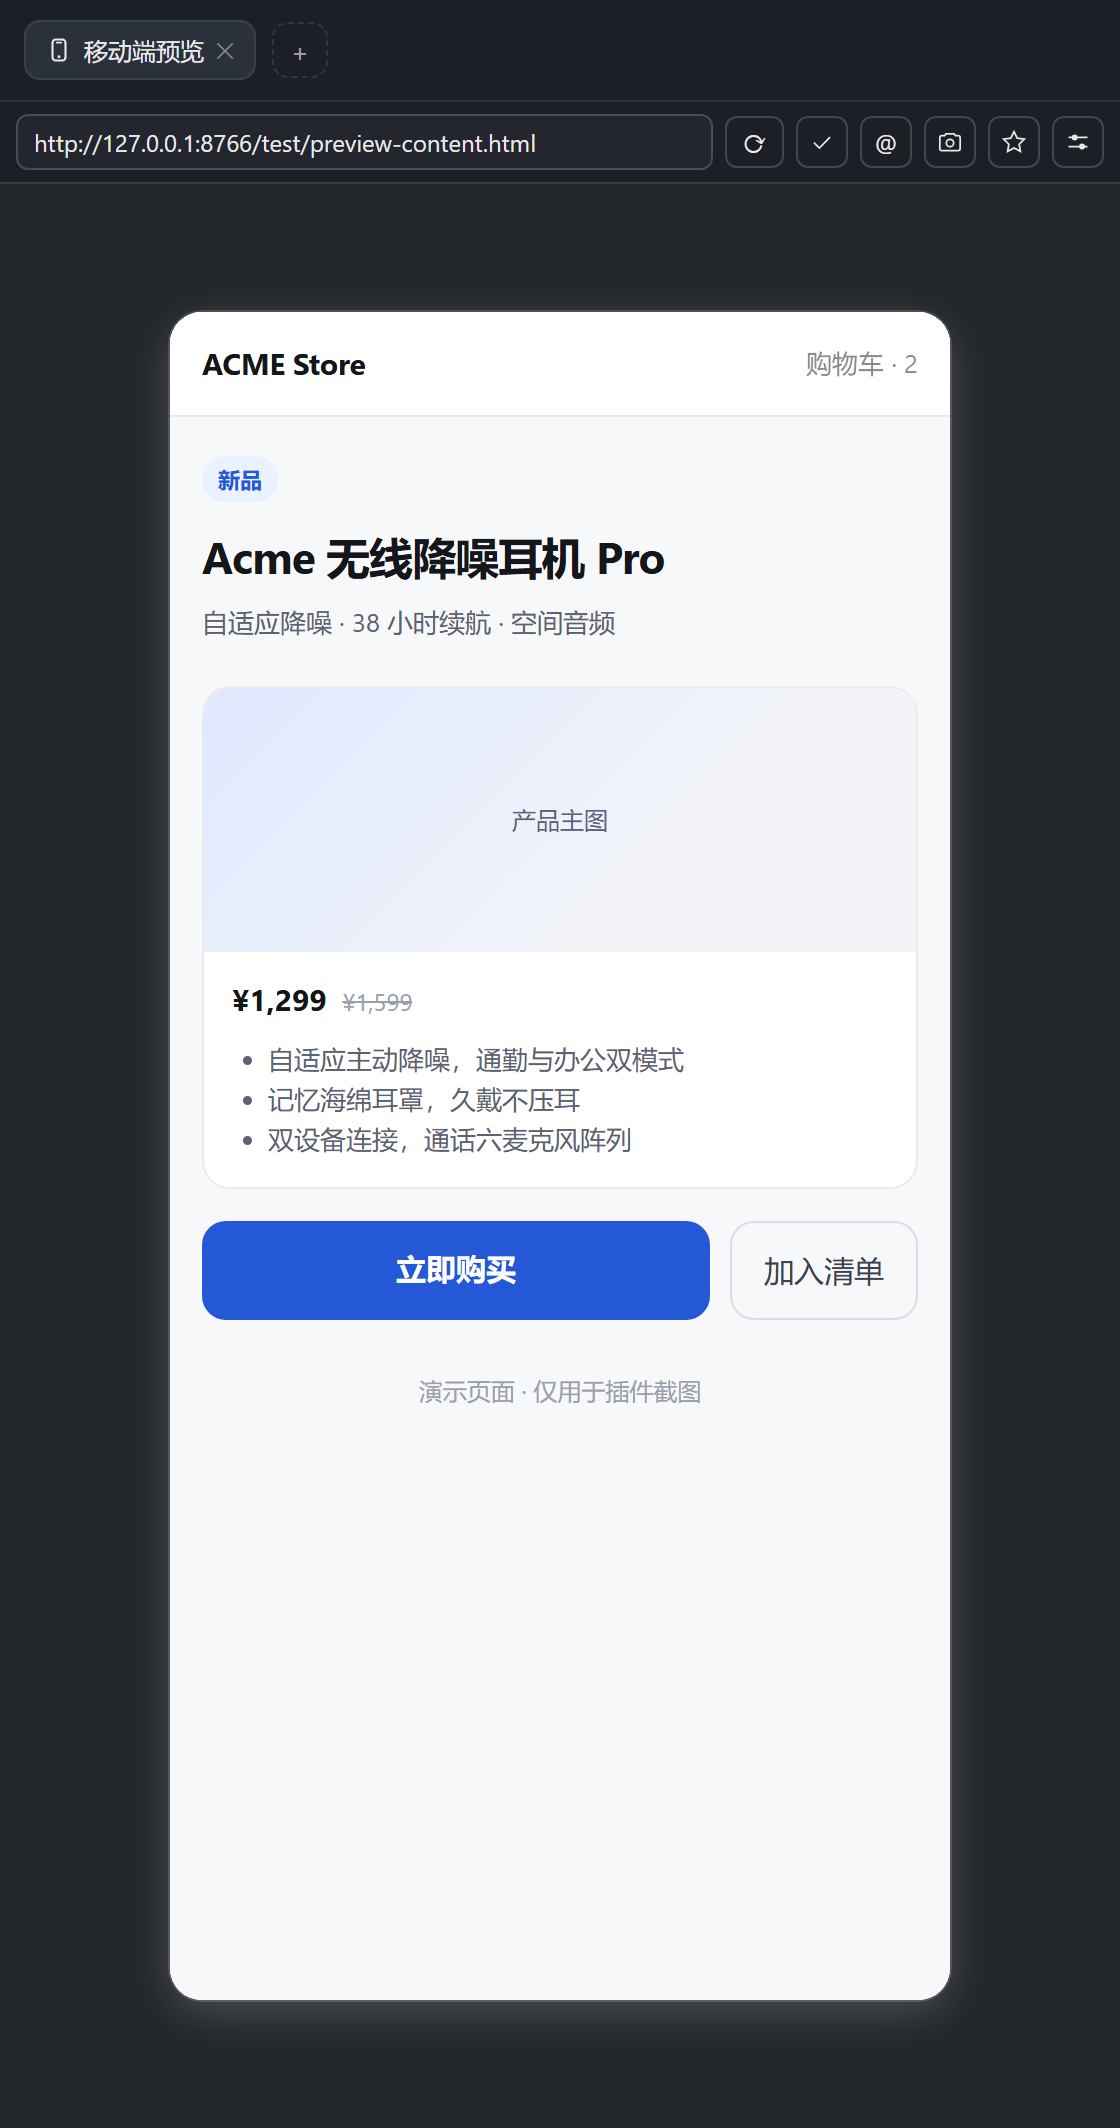
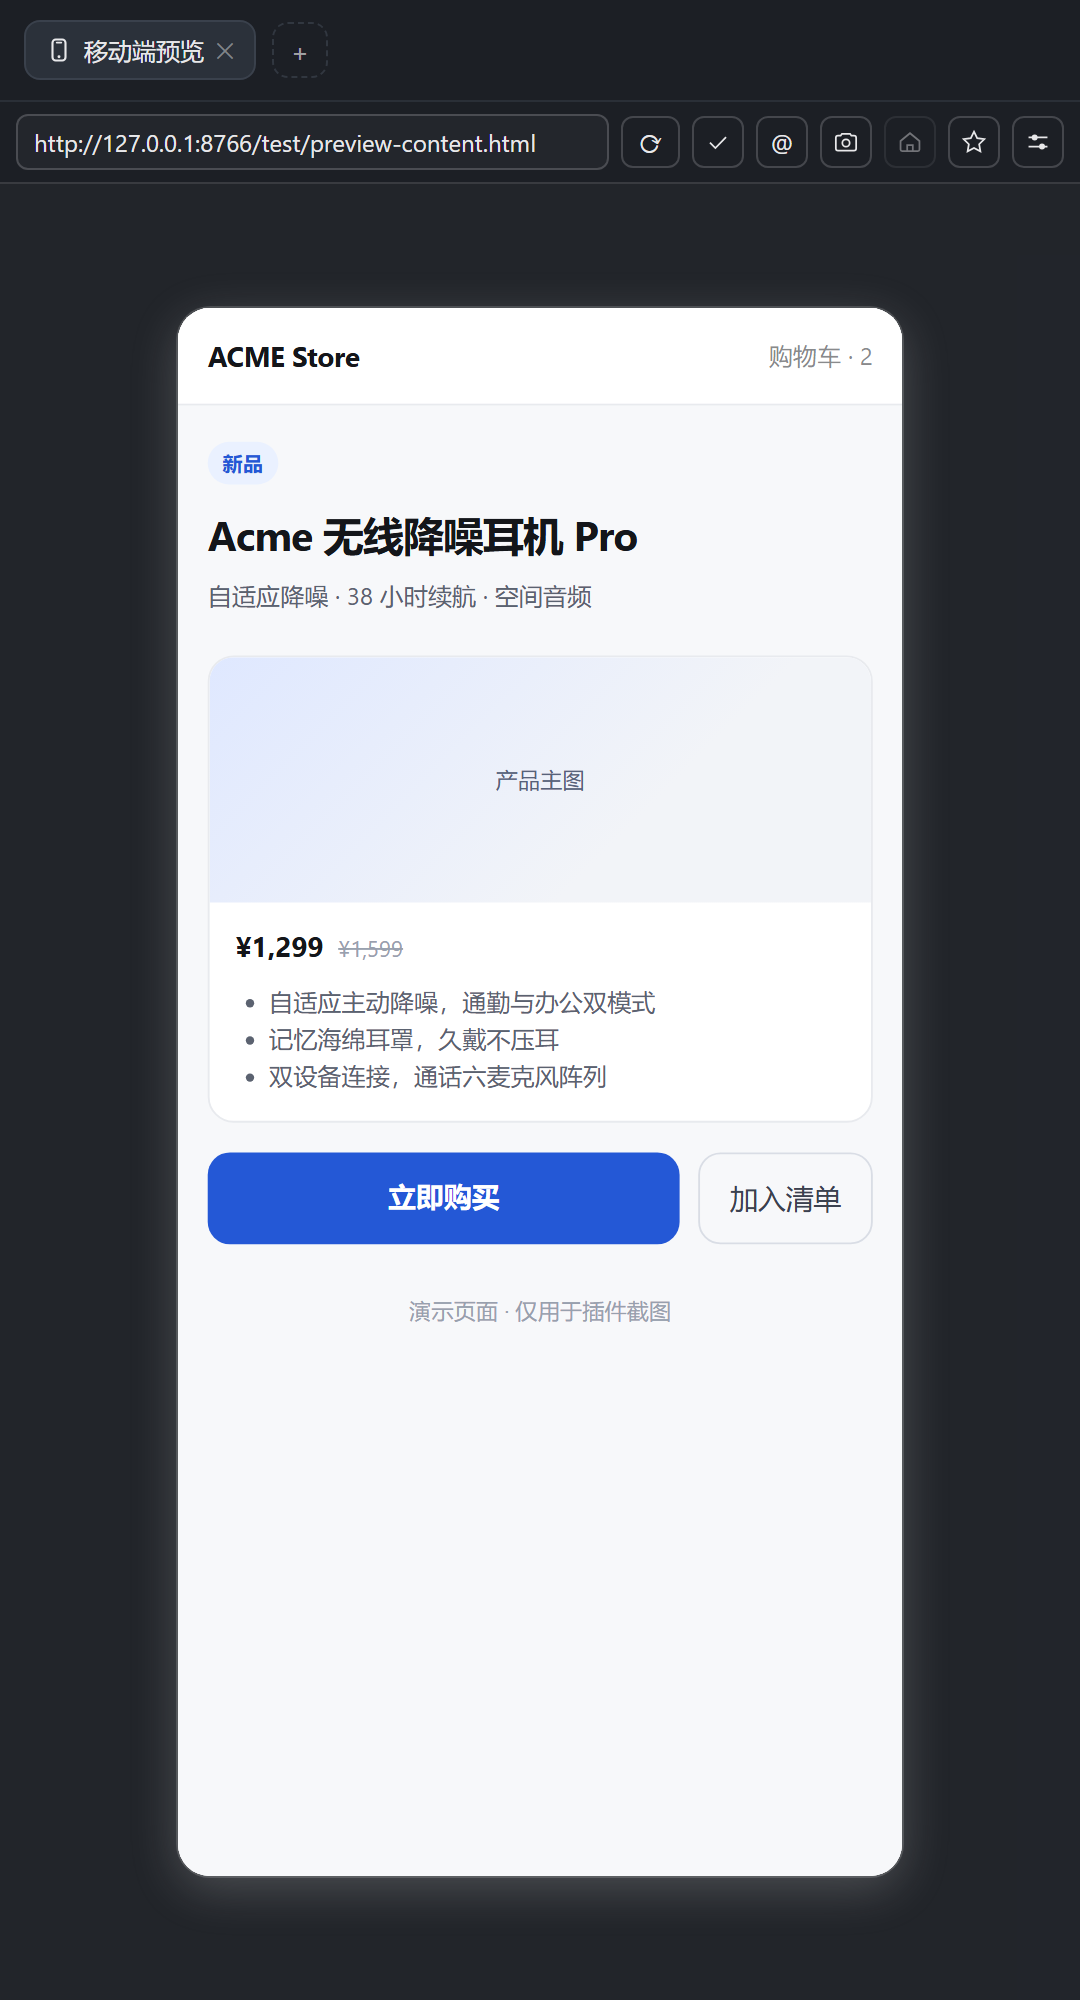
feat: house button jumps back to the default page (v0.3.1)
The frame is a cross-origin iframe, so in-page navigation can never be read
back into the address bar. Give the toolbar a house button that re-opens the
default page remembered by the star; disabled when nothing is remembered or
the frame already sits on it. Smoke test covers both, and clears the shared
hook slots before a fresh mount so earlier state cannot mask the assertion.

diff --git a/client.js b/client.js
@@ -73,6 +73,7 @@ window.__ModuleLoader__.load({
       'error.insert': '插入失败：该会话的输入框尚未就绪。',
       'action.home.set': '设为默认主页',
       'action.home.clear': '取消默认主页',
+      'action.home.go': '回到主页：{host}',
       'empty.openHome': '打开默认主页',
       'empty.home': '默认主页：{url}',
       'action.shot': '截图（捕获时请选择"当前标签页"）',
@@ -108,6 +109,7 @@ window.__ModuleLoader__.load({
       'error.insert': 'Insertion failed: this session has no composer yet.',
       'action.home.set': 'Set as default page',
       'action.home.clear': 'Clear default page',
+      'action.home.go': 'Go to the default page: {host}',
       'empty.openHome': 'Open the default page',
       'empty.home': 'Default page: {url}',
       'action.shot': 'Screenshot (pick "This tab" when asked)',
@@ -334,6 +336,22 @@ window.__ModuleLoader__.load({
           strokeWidth: 1.2,
           strokeLinejoin: 'round',
         }),
+      );
+    }
+
+    /** A house outline: jump back to the remembered default page. */
+    function HomeNavGlyph() {
+      return h(
+        'svg',
+        { width: 14, height: 14, viewBox: '0 0 16 16', 'aria-hidden': true, style: { display: 'block' } },
+        h('path', {
+          d: 'M2.6 7.4 8 3l5.4 4.4v4.9c0 .5-.4.9-.9.9H3.5c-.5 0-.9-.4-.9-.9z',
+          fill: 'none',
+          stroke: 'currentColor',
+          strokeWidth: 1.2,
+          strokeLinejoin: 'round',
+        }),
+        h('path', { d: 'M6.4 13.2V9.8h3.2v3.4', fill: 'none', stroke: 'currentColor', strokeWidth: 1.1, strokeLinejoin: 'round' }),
       );
     }
 
@@ -698,6 +716,14 @@ window.__ModuleLoader__.load({
                 disabled: url === '',
                 onClick: shootPage,
               }, h(CameraGlyph)),
+              h('button', {
+                type: 'button',
+                className: 'dmb-btn dmb-btn-icon',
+                title: copy('action.home.go', { host: home === '' ? '' : hostOf(home) }),
+                'aria-label': copy('action.home.go', { host: home === '' ? '' : hostOf(home) }),
+                disabled: home === '' || url === home,
+                onClick: () => show(home),
+              }, h(HomeNavGlyph)),
               h('button', {
                 type: 'button',
                 className: 'dmb-btn dmb-btn-icon',

diff --git a/README.md b/README.md
@@ -14,6 +14,7 @@ insertion of the current page URL from the composer, one-click copy.
 - `/url` 快捷指令：选中即把当前页面地址写进输入框（不用开 `@` 菜单、不用鼠标）
 - 工具栏 `@` 按钮：同一件事的一键版，插到光标处，原有草稿不动
 - 工具栏 `⭐` 按钮：把当前页设为**默认主页**（`localStorage`），之后新开的空白标签页自动打开它；再点一次取消
+- 工具栏房屋按钮：**回到默认主页** —— 跨域页面里的站内跳转读不回地址栏，这是"走远了再回去"的可靠路径
 - 工具栏相机按钮：**截图当前页** —— 抓的是设备框里的真实像素（复制到剪贴板，失败则下载 PNG）
 - 工具栏：回车即打开、`⟳` 重载、复制图标（成功后短暂变对勾）、滑块图标切换尺寸栏
 - 多标签页；切换标签不重载页面（`keepMounted`）；重启 DSH 后能恢复上次打开的页面
@@ -34,8 +35,9 @@ insertion of the current page URL from the composer, one-click copy.
 3. 点工具栏最右的**滑块图标**展开尺寸栏：选预设，或选「自定义」直接改宽高数字（回车 / 失焦生效）；
    再点一次收起。默认收起，所以每次新开标签页都从「只有地址栏」的紧凑状态开始。
 4. 工具栏：`⟳` 重载、复制图标复制当前 URL、`@` 把当前 URL 插入对话框、相机图标截图、
-   `⭐` 设为默认主页、滑块图标切换尺寸栏；尺寸栏展开时右侧还有 `⟲` 横竖屏互换。
+   房屋图标回到默认主页、`⭐` 设为默认主页、滑块图标切换尺寸栏；尺寸栏展开时右侧还有 `⟲` 横竖屏互换。
 5. 点 `⭐` 之后，新开的空白标签页会直接打开这个默认主页；空状态里也有「打开默认主页」按钮。
+   在页面里点来点去走远了，点**房屋图标**即可回到默认主页（地址栏是进入时的地址，不会跟着站内跳转变化）。
    再点一次 `⭐` 取消默认主页。
 6. 点相机图标截图：浏览器会弹出捕获选择器，选 **「当前标签页」**，插件按设备框裁剪后复制到剪贴板
    （剪贴板不支持图片时改为下载 `mobile-preview-<host>-<时间戳>.png`）。

diff --git a/CHANGELOG.md b/CHANGELOG.md
@@ -1,5 +1,17 @@
 # Changelog
 
+## v0.3.1 — 2026-10-24
+
+**修复**
+
+- 地址栏在页面内跳转后不更新（跨域 iframe 的 `location` 读不到，这是浏览器的硬限制）：
+  新增工具栏**房屋按钮**，一键回到 `⭐` 记住的默认主页；没有默认主页（或已经在主页上）时按钮置灰。
+
+**测试**
+
+- `npm test` 新增断言：走出默认主页后点房屋按钮能回到默认页；无默认主页时按钮禁用；
+  并让新建挂载前清空共享的 hook 槽位，避免上一步状态污染「空白标签页起头」的断言。
+
 ## v0.3.0 — 2026-10-24
 
 **新增**
